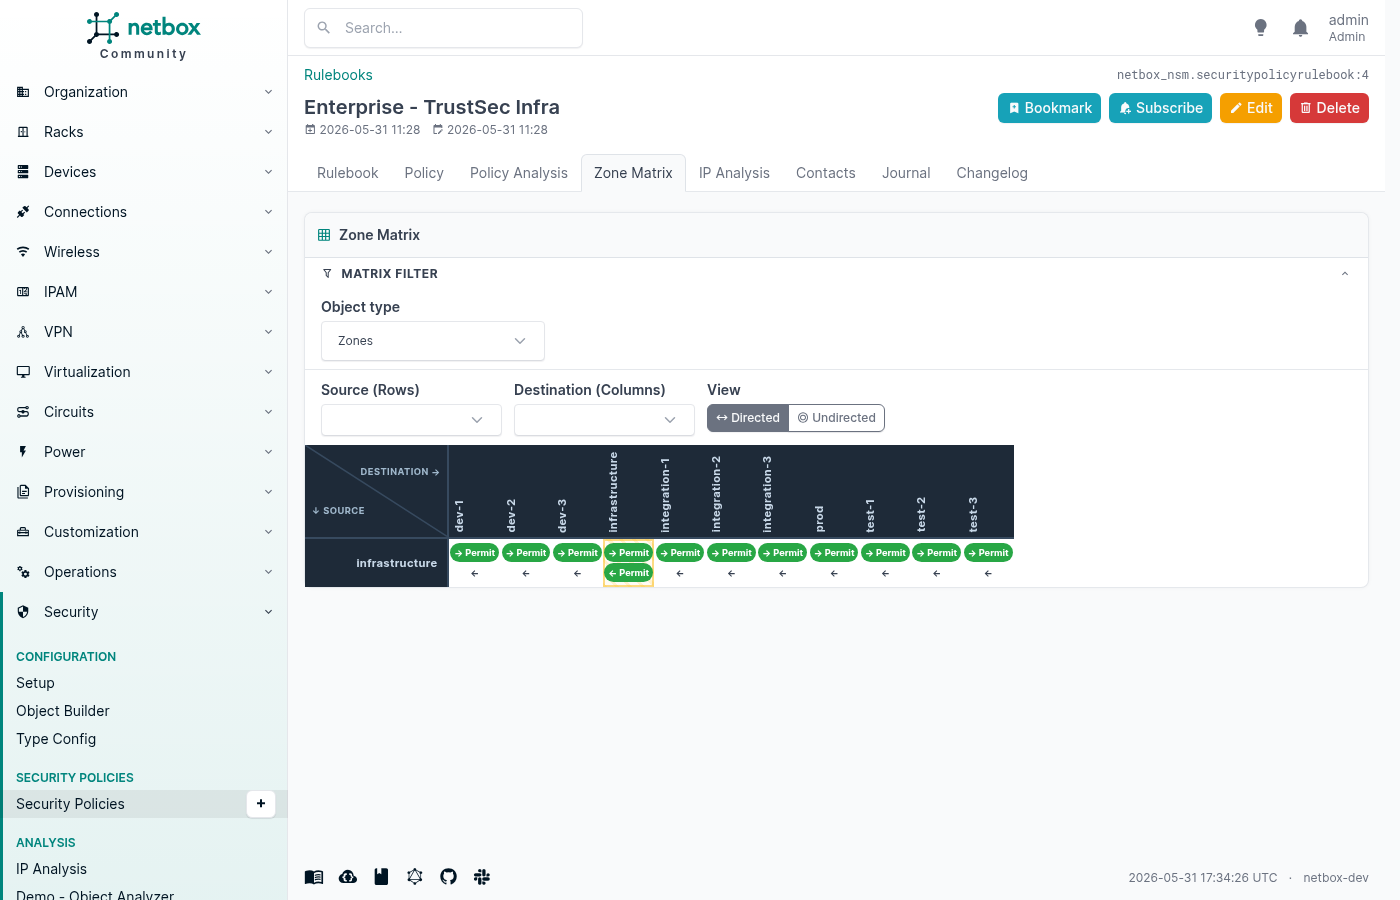
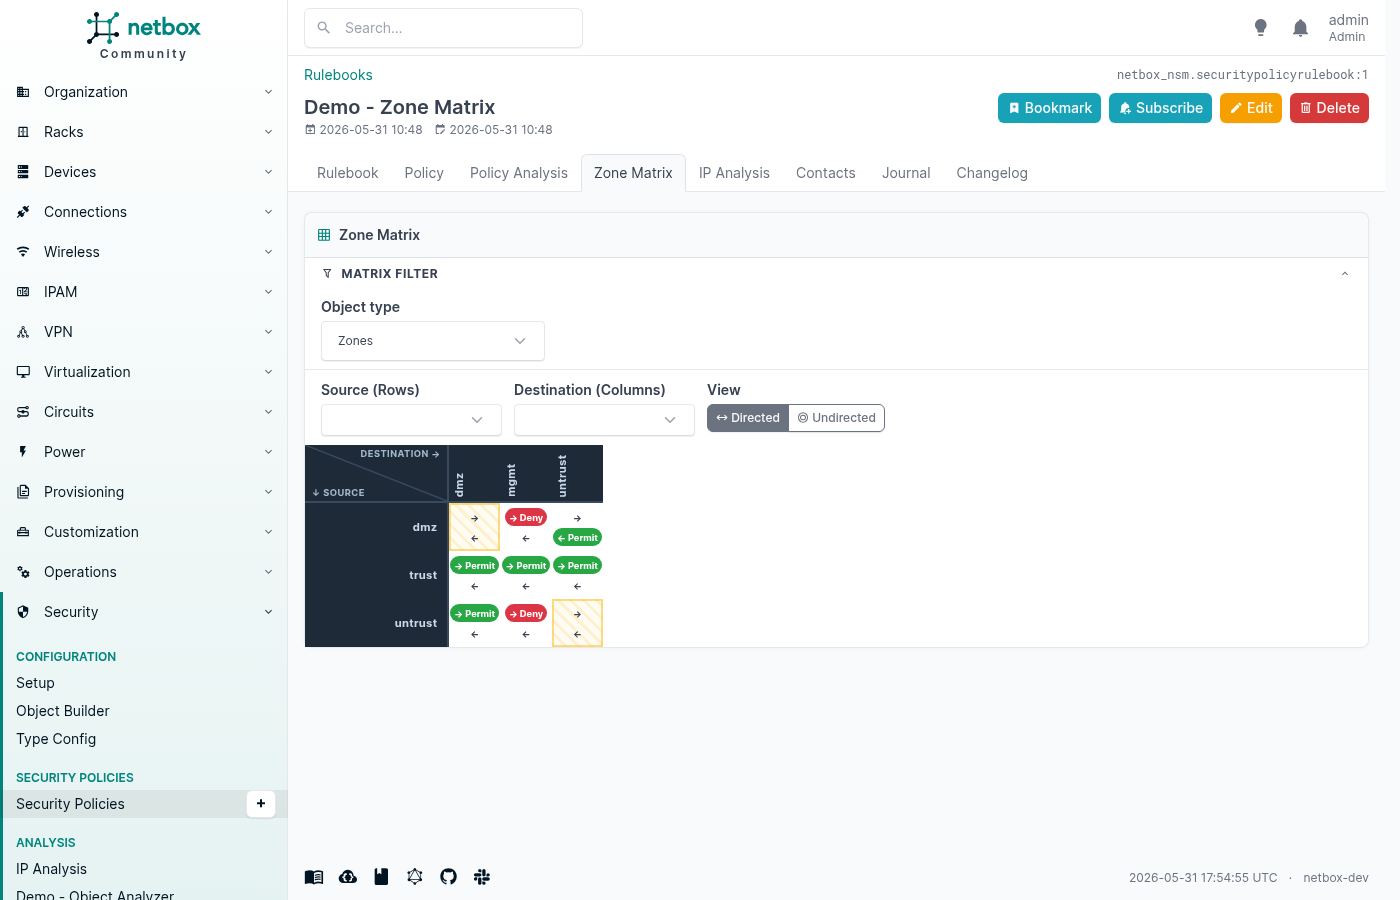
fix: correct nsmtypeconfig_add → typeconfig_add URL in object_builder view
- docs: update screenshots 04, 09, 11 with current UI
- docs: remove IP Analysis section from README (feature not yet stable)
- docs: update 14-prefix-security-panel-filled.png

Changed region(s): [[0.215, 0.4667, 0.7371, 0.7467], [0.215, 0.0933, 0.3993, 0.1556], [0.8293, 0.9644, 0.8907, 0.9956]]

diff --git a/netbox_nsm/views/object_builder.py b/netbox_nsm/views/object_builder.py
@@ -68,6 +68,6 @@ class ObjectBuilderView(LoginRequiredMixin, View):
             table = NSMTypeConfigTable(qs)
             RequestConfig(request, paginate={"per_page": 50}).configure(table)
             context["table"] = table
-            context["add_url"] = reverse("plugins:netbox_nsm:nsmtypeconfig_add")
+            context["add_url"] = reverse("plugins:netbox_nsm:typeconfig_add")
 
         return render(request, "netbox_nsm/object_builder.html", context)

diff --git a/README.md b/README.md
@@ -25,7 +25,6 @@ tightly integrated with NetBox's existing IPAM and DCIM data.
    - [Policy Rules](#policy-rules)
    - [Policy Analysis](#policy-analysis)
    - [Zone Matrix](#zone-matrix)
-   - [IP Analysis](#ip-analysis)
 9. [Demo – Object Analyzer](#demo--object-analyzer)
 10. [Demo Data: Enterprise DC](#demo-data-enterprise-dc)
 11. [REST API](#rest-api)
@@ -226,19 +225,6 @@ Each cell lists the services and action for that traffic direction.
 
 Particularly useful for zone-based firewall policies (Palo Alto, Fortinet, Cisco ASA, …) to
 instantly see what is allowed between security zones.
-
-### IP Analysis
-
-The **IP Analysis** tab lets you look up a specific IP address or prefix and see all rules that
-match it — from both source and destination perspective.
-
-![IP Analysis](docs/img/10-ip-analysis.png)
-
-Enter a Prefix, IP Address or Custom Object in the search box. The result lists:
-- All rules where this object appears on the **source** side
-- All rules where this object appears on the **destination** side
-
-Links navigate directly to the matching rule in the full policy view.
 
 ---
 
